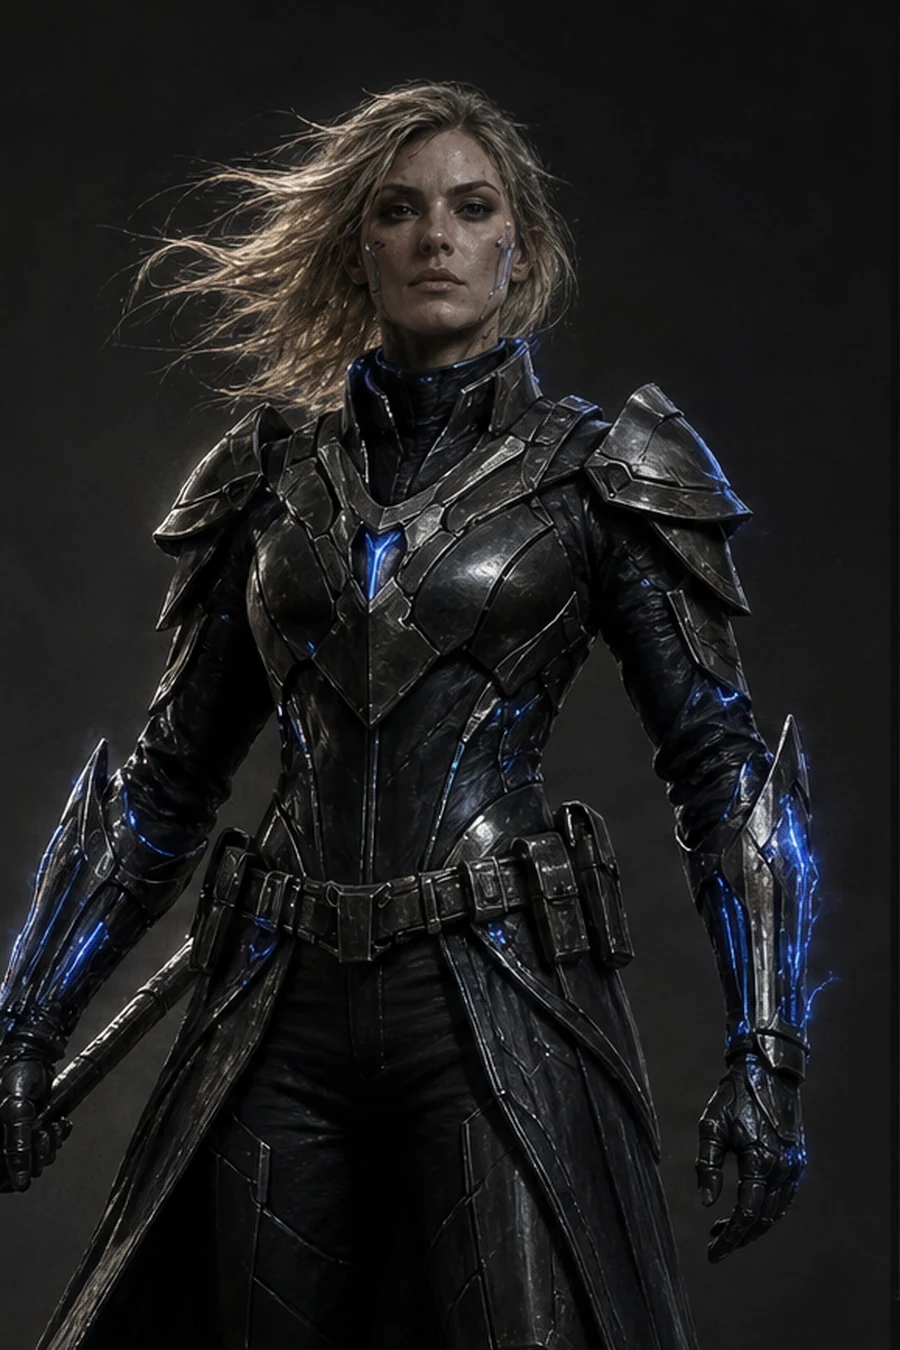
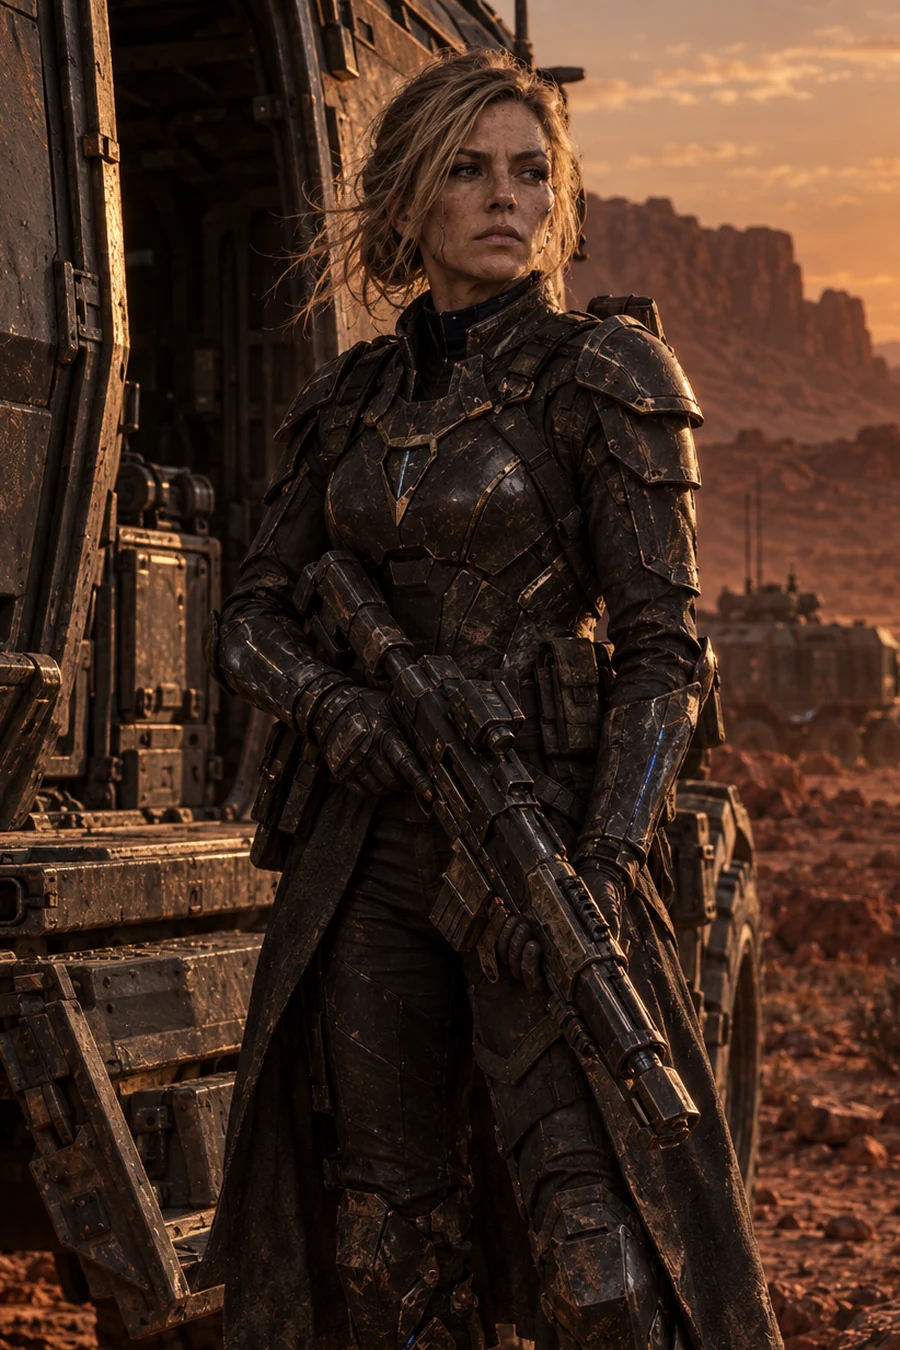
Nara y Calev rehechos
Dejan de ser recortes de las fichas de tropa. Ahora son su escena del cap. 24:
el convoy fuera del Muro, roca expuesta y suelo rojizo sin nieve, y el sol bajo
que deja sombras largas -"un atardecer que no terminaba"-. Equipo de escolta
gastado, no armadura de mando.

diff --git a/sw.js b/sw.js
@@ -1,6 +1,6 @@
 // REGLA (heredada del Libro I): todo cambio a index.html, styles.css, content.js,
 // app.js o nieve.js exige subir SHELL_CACHE antes de publicar.
-const SHELL_CACHE = "el-ciclo-inmovil-libro2-shell-v43";
+const SHELL_CACHE = "el-ciclo-inmovil-libro2-shell-v44";
 // Mismo nombre que AUDIO_CACHE en app.js ("Guardar sin conexión"). Si no
 // coinciden, el activate de abajo borra los capitulos guardados. No subirlo sin
 // motivo: vacia lo que cada oyente guardo.
